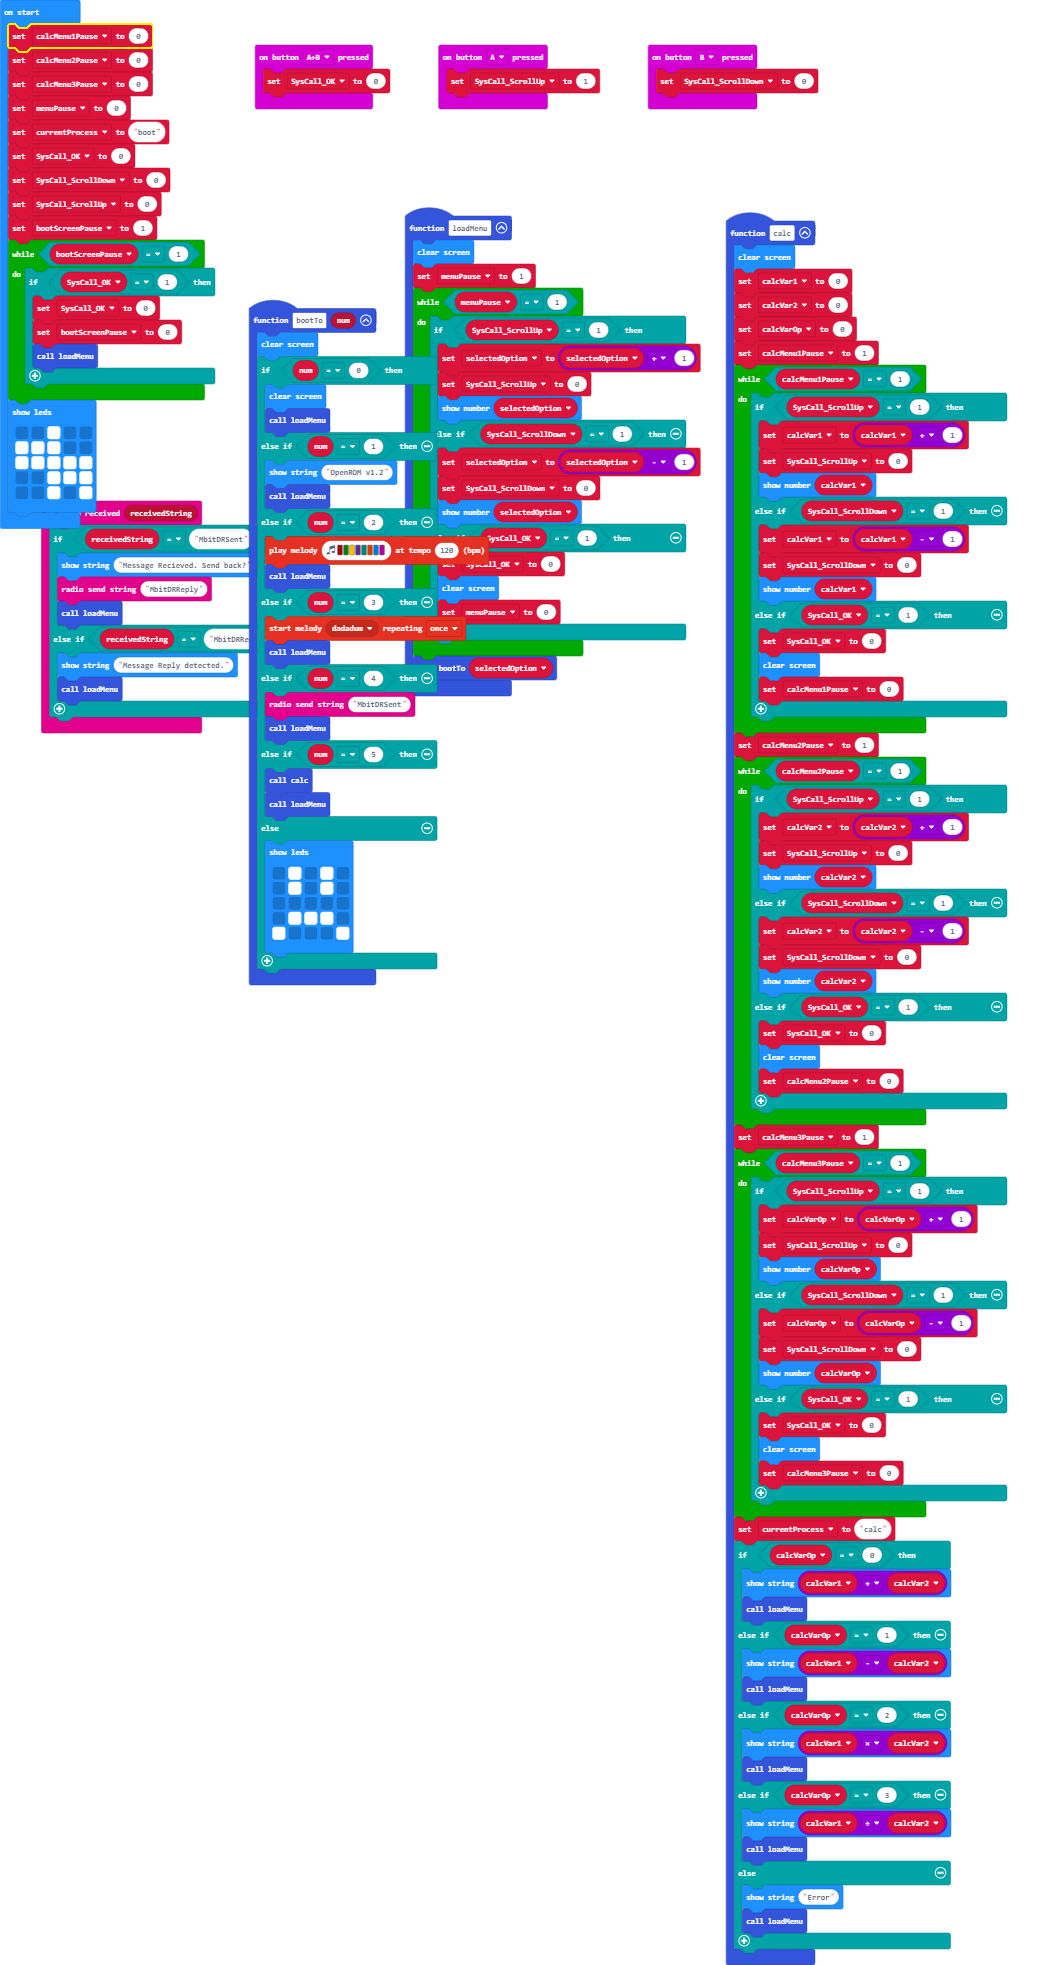
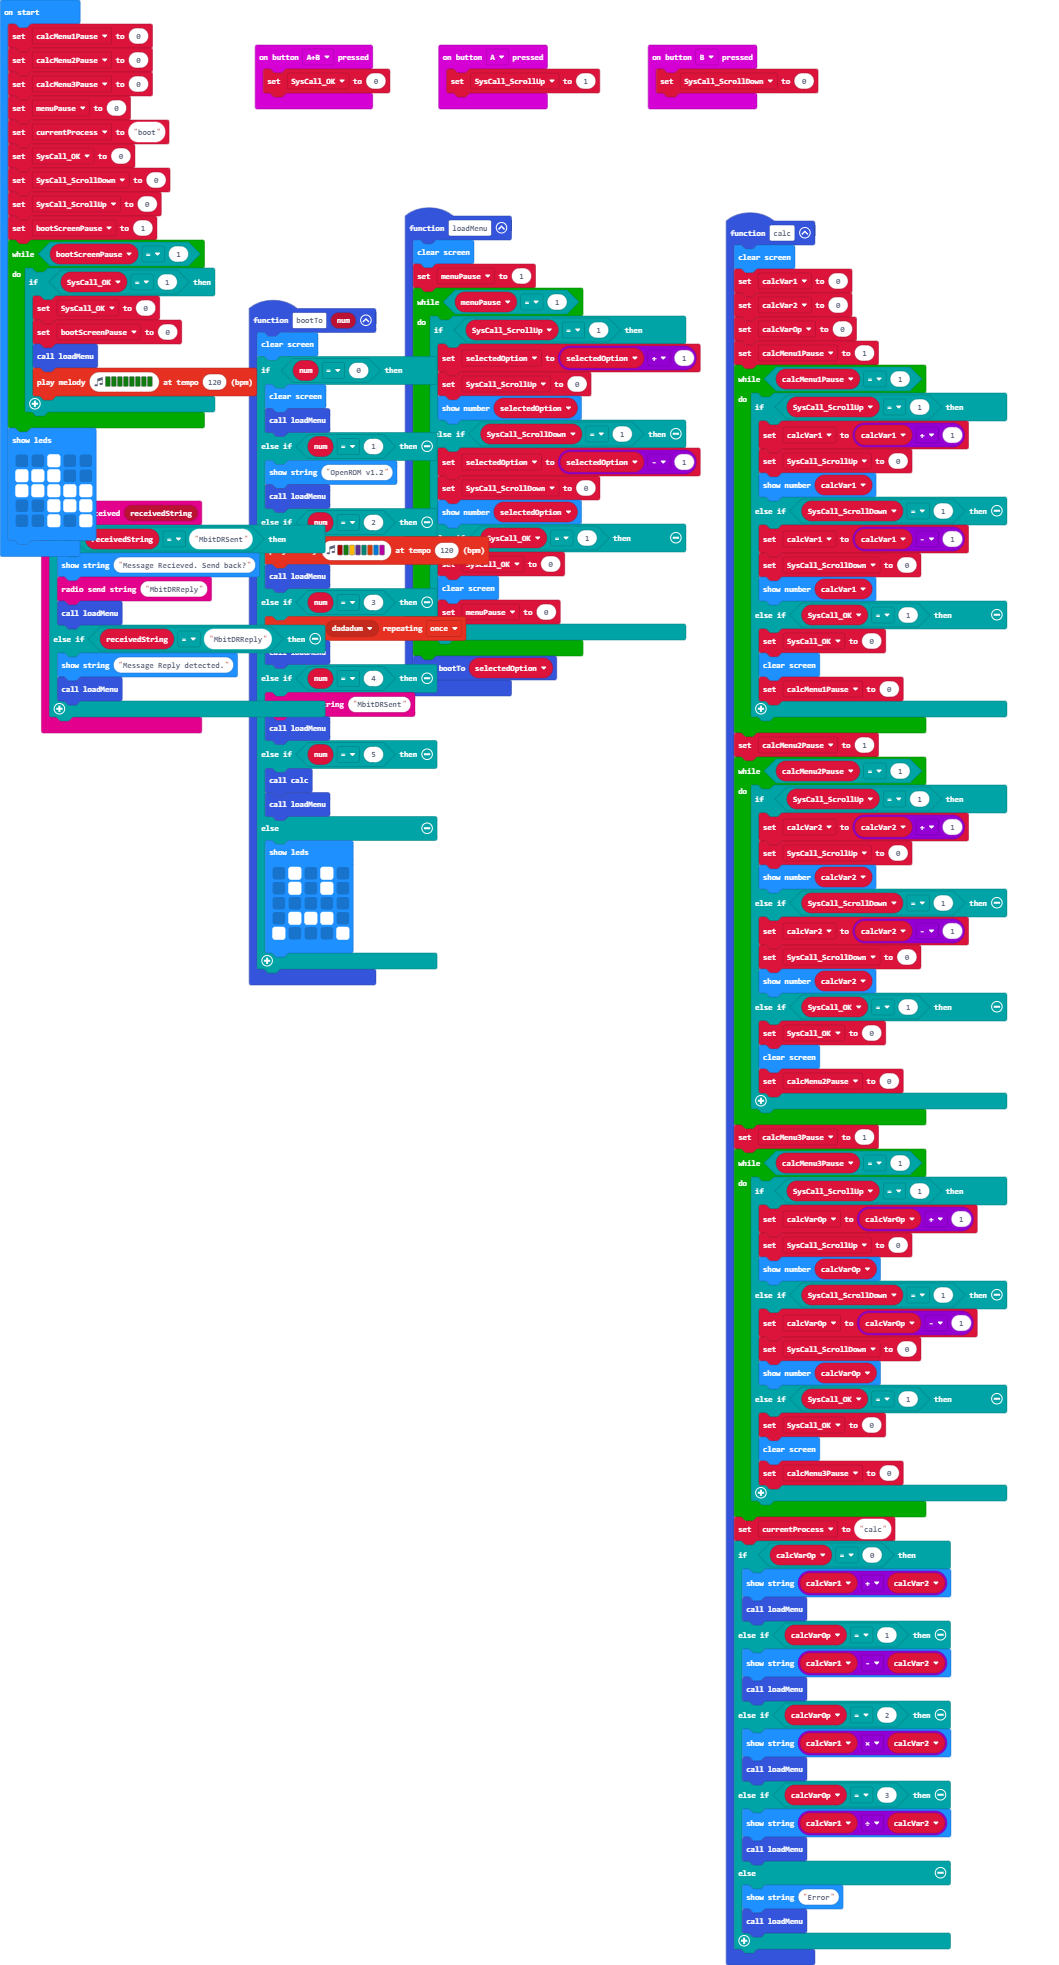
i dunno what i did but i think i broke something

Changed region(s): [[0.0, 0.1863, 0.2493, 0.3104], [0.2181, 0.2483, 0.3116, 0.3725]]

diff --git a/main.ts b/main.ts
@@ -164,6 +164,7 @@ while (bootScreenPause == 1) {
         SysCall_OK = 0
         bootScreenPause = 0
         loadMenu()
+        music.playMelody("G G G G G G G G ", 120)
     }
 }
 basic.showLeds(`
